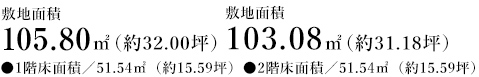
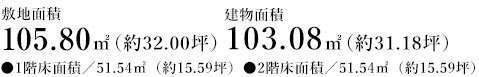
header.php　を元に戻す、間取り、12号邸sp画像、物件概要ページ修正

Changed region(s): [[0.4676, 0.0779, 0.6138, 0.2857]]

diff --git a/gentei/outline.html b/gentei/outline.html
@@ -84,35 +84,27 @@ define("title" ,"物件概要｜【公式】バウスガーデン大倉山ID");
   </table>
 </div>
 <div class="container">
-  <p class="outlineTitle">【第1期1次本広告物件概要】</p>
+  <p class="outlineTitle">【第1期2次販売予告概要】</p>
   <table class="outline">
     <tr>
-      <th>総戸数</th>
-      <td>12邸</td>
-    </tr>
-    <tr>
       <th>販売戸数</th>
-      <td>8邸</td>
+      <td>未定</td>
     </tr>
     <tr>
       <th>販売価格</th>
-      <td>7,392万円～8,040万円</td>
+      <td>未定</td>
     </tr>
-<!--    <tr>
-      <th>最多価格帯</th>
-      <td>10戸未満は必要ありません。</td>
-    </tr>-->
     <tr>
       <th>間取り</th>
-      <td>2LDK〜4LDK</td>
+      <td>2LDK＋WIC＋SIC〜3LDK＋WIC</td>
     </tr>
     <tr>
       <th>土地面積</th>
-      <td>105.71㎡（約31.97坪）～105.82㎡（約32.01坪）</td>
+      <td>105.71㎡（約31.97坪）～105.80㎡（約32.00坪）</td>
     </tr>
     <tr>
       <th>建築延床面積</th>
-      <td>96.87㎡（約29.30坪）～101.02㎡（約30.55坪）</td>
+      <td>100.71㎡（約30.46坪）～103.08㎡（約31.18坪）</td>
     </tr>
 	<tr>
       <th>テラス面積</th>
@@ -120,45 +112,25 @@ define("title" ,"物件概要｜【公式】バウスガーデン大倉山ID");
     </tr>
     <tr>
       <th>建築確認番号</th>
-      <td>第H31SHC122268号（令和2年2月6日付）他</td>
+      <td>第H31SHC122270号（令和2年2月6日付）他</td>
     </tr>
     <tr>
       <th>建物完成時期</th>
-      <td>1号邸・2号邸 2020年7月28日竣工済み、<br>3号邸〜12号邸 2021年2月下旬予定</td>
+      <td>1号邸・2号邸 2020年7月28日<br>3号邸〜12号邸 2021年2月下旬</td>
     </tr>
     <tr>
       <th>入居予定時期</th>
       <td>2021年4月下旬</td>
     </tr>
-<!--    <tr>
+    <tr>
       <th>販売予定時期</th>
-      <td>2021年2月中旬</td>
-    </tr>-->
-    <tr>
-      <th>登録受付期間</th>
-      <td>2021年2月19日（金）～2021年2月21日（日）12時まで</td>
-    </tr>
-    <tr>
-      <th>抽選日時</th>
-      <td>2021年2月21日（金）13時</td>
-    </tr>
-    <tr>
-      <th>登録受付場所</th>
-      <td>「バウスガーデン大倉山」販売センター</td>
-    </tr>
-    <tr>
-      <th>抽選場所</th>
-      <td>「バウスガーデン大倉山」販売センター<br>※登録の際には、2019年・2020年分の収入証明書、身分証明書(健康保険証・運転免許証・パスポート等)および認印が必要です</td>
-    </tr>
-    <tr>
-      <th>広告有効期限</th>
-      <td>2021年2月21日</td>
+      <td>2021年2月下旬</td>
     </tr>
   </table>
 </div>
 <div class="outline-cap">
-  <p><!--＜予告広告＞</p>
-  <p>※本広告を行うまでの間は、契約または、予約の申込の受付は一切できません。また、申込みの順位の確保に関する措置は講じられません。予めご了承ください。※全体で販売するか数期に分けて販売するか確定しておらず、販売住戸が未定のため物件データは全販売対象住戸のものを表示しています。確定情報は本広告にてお知らせいたします。-->※坪表示は1㎡＝0.3025坪で換算した約表示です。※敷地面積表示は、実測によるものです。※記載の区画図・間取図は概略図で大凡の広さ・縮尺・方位で若干誤差があります。畳数は約表示です。※家具・調度品は販売価格に含まれません。※記載の図面・方位等が現況と相違する場合は現況を優先させていただきます。現地案内の際にお確かめください。※日照・眺望・通風・周辺環境については将来に渡り保証するものではありません。※概要は令和3年2月12日現在のものです。</p>
+  <p>＜予告広告＞</p>
+  <p>※本広告を行うまでの間は、契約または、予約の申込の受付は一切できません。また、申込みの順位の確保に関する措置は講じられません。予めご了承ください。※全体で販売するか数期に分けて販売するか確定しておらず、販売住戸が未定のため物件データは全販売対象住戸のものを表示しています。確定情報は本広告にてお知らせいたします。※坪表示は1㎡＝0.3025坪で換算した約表示です。※敷地面積表示は、実測によるものです。</p>
 </div>
 
 <!-- /.CONTENTS -->

diff --git a/outline.html b/outline.html
@@ -84,35 +84,27 @@ define("title" ,"物件概要｜【公式】バウスガーデン大倉山ID");
   </table>
 </div>
 <div class="container">
-  <p class="outlineTitle">【第1期1次本広告物件概要】</p>
+  <p class="outlineTitle">【第1期2次販売予告概要】</p>
   <table class="outline">
     <tr>
-      <th>総戸数</th>
-      <td>12邸</td>
-    </tr>
-    <tr>
       <th>販売戸数</th>
-      <td>8邸</td>
+      <td>未定</td>
     </tr>
     <tr>
       <th>販売価格</th>
-      <td>7,392万円～8,040万円</td>
+      <td>未定</td>
     </tr>
-<!--    <tr>
-      <th>最多価格帯</th>
-      <td>10戸未満は必要ありません。</td>
-    </tr>-->
     <tr>
       <th>間取り</th>
-      <td>2LDK〜4LDK</td>
+      <td>2LDK＋WIC＋SIC〜3LDK＋WIC</td>
     </tr>
     <tr>
       <th>土地面積</th>
-      <td>105.71㎡（約31.97坪）～105.82㎡（約32.01坪）</td>
+      <td>105.71㎡（約31.97坪）～105.80㎡（約32.00坪）</td>
     </tr>
     <tr>
       <th>建築延床面積</th>
-      <td>96.87㎡（約29.30坪）～101.02㎡（約30.55坪）</td>
+      <td>100.71㎡（約30.46坪）～103.08㎡（約31.18坪）</td>
     </tr>
 	<tr>
       <th>テラス面積</th>
@@ -120,45 +112,25 @@ define("title" ,"物件概要｜【公式】バウスガーデン大倉山ID");
     </tr>
     <tr>
       <th>建築確認番号</th>
-      <td>第H31SHC122268号（令和2年2月6日付）他</td>
+      <td>第H31SHC122270号（令和2年2月6日付）他</td>
     </tr>
     <tr>
       <th>建物完成時期</th>
-      <td>1号邸・2号邸 2020年7月28日竣工済み、<br>3号邸〜12号邸 2021年2月下旬予定</td>
+      <td>1号邸・2号邸 2020年7月28日<br>3号邸〜12号邸 2021年2月下旬</td>
     </tr>
     <tr>
       <th>入居予定時期</th>
       <td>2021年4月下旬</td>
     </tr>
-<!--    <tr>
+    <tr>
       <th>販売予定時期</th>
-      <td>2021年2月中旬</td>
-    </tr>-->
-    <tr>
-      <th>登録受付期間</th>
-      <td>2021年2月19日（金）～2021年2月21日（日）12時まで</td>
-    </tr>
-    <tr>
-      <th>抽選日時</th>
-      <td>2021年2月21日（金）13時</td>
-    </tr>
-    <tr>
-      <th>登録受付場所</th>
-      <td>「バウスガーデン大倉山」販売センター</td>
-    </tr>
-    <tr>
-      <th>抽選場所</th>
-      <td>「バウスガーデン大倉山」販売センター<br>※登録の際には、2019年・2020年分の収入証明書、身分証明書(健康保険証・運転免許証・パスポート等)および認印が必要です</td>
-    </tr>
-    <tr>
-      <th>広告有効期限</th>
-      <td>2021年2月21日</td>
+      <td>2021年2月下旬</td>
     </tr>
   </table>
 </div>
 <div class="outline-cap">
-  <p><!--＜予告広告＞</p>
-  <p>※本広告を行うまでの間は、契約または、予約の申込の受付は一切できません。また、申込みの順位の確保に関する措置は講じられません。予めご了承ください。※全体で販売するか数期に分けて販売するか確定しておらず、販売住戸が未定のため物件データは全販売対象住戸のものを表示しています。確定情報は本広告にてお知らせいたします。-->※坪表示は1㎡＝0.3025坪で換算した約表示です。※敷地面積表示は、実測によるものです。※記載の区画図・間取図は概略図で大凡の広さ・縮尺・方位で若干誤差があります。畳数は約表示です。※家具・調度品は販売価格に含まれません。※記載の図面・方位等が現況と相違する場合は現況を優先させていただきます。現地案内の際にお確かめください。※日照・眺望・通風・周辺環境については将来に渡り保証するものではありません。※概要は令和3年2月12日現在のものです。</p>
+  <p>＜予告広告＞</p>
+  <p>※本広告を行うまでの間は、契約または、予約の申込の受付は一切できません。また、申込みの順位の確保に関する措置は講じられません。予めご了承ください。※全体で販売するか数期に分けて販売するか確定しておらず、販売住戸が未定のため物件データは全販売対象住戸のものを表示しています。確定情報は本広告にてお知らせいたします。※坪表示は1㎡＝0.3025坪で換算した約表示です。※敷地面積表示は、実測によるものです。</p>
 </div>
 
 <!-- /.CONTENTS -->

diff --git a/gentei/plan.html b/gentei/plan.html
@@ -54,8 +54,8 @@ define("title" ,"PLAN｜【公式】バウスガーデン大倉山ID");
 	  <div class="shikichizu"><img src="images/plan/sikichizu_a.jpg" alt=""/></div>
 	  <div class="bnr_lay"><a href="https://my.matterport.com/show/?m=9ZxJaN6NgXf" target="_blank"><img src="images/plan_detail/3Dbnr.jpg" alt="3d"/></a></div>
     <div class="flex maison">
-      <a href="plan_detail_01.html" target="_blank"><img class="link_bnr roll" src="images/plan/1st_maison.jpg"
-          alt="1号邸"></a>
+<!--      <a href="plan_detail_01.html" target="_blank"><img class="link_bnr roll" src="images/plan/1st_maison.jpg"
+          alt="1号邸"></a>-->
 <!--      <a href="plan_detail_02.html" target="_blank"><img class="link_bnr roll" src="images/plan/2st_maison.jpg"
           alt="2号邸"></a>-->
 		<a href="plan_detail_03.html" target="_blank"><img class="link_bnr roll" src="images/plan/3st_maison.jpg"

diff --git a/gentei/header.php b/gentei/header.php
@@ -113,7 +113,7 @@
   <link rel="stylesheet" href="common/css/<?php echo cssinc; ?>.css" type="text/css">
   <link rel="stylesheet" type="text/css" href="common/css/layerBoard.css">
   <link rel="stylesheet" type="text/css" href="common/css/flexslider.css">
-  <link href="https://use.fontawesome.com/releases/v5.6.1/css/all.css" rel="stylesheet">
+  
   <!-- Global site tag (gtag.js) - Google Analytics -->
 <script async src="https://www.googletagmanager.com/gtag/js?id=UA-176429020-1"></script>
 <script>
@@ -139,13 +139,13 @@
         </div>
         <div class="header-hnav">
           <ul>
-            <li class="hnav_li navtext">
-              <a href="outline.html" target="_blank"><i class="fas fa-angle-right"></i> 物件概要
-                <!--<img src="images/outline_off.jpg" alt="物件概要" />--> </a>
+            <li class="hnav_li">
+              <a href="outline.html" target="_blank">
+                <img src="images/outline_off.jpg" alt="物件概要" /> </a>
             </li>
-            <li class="navtext">
-              <a href="map.html" target="_blank"><i class="fas fa-angle-right"></i> 現地案内図
-                <!--<img src="images/map_off.jpg" alt="現地案内図" />--> </a>
+            <li>
+              <a href="map.html" target="_blank">
+                <img src="images/map_off.jpg" alt="現地案内図" /> </a>
             </li>
 <!--
 			  <li>
@@ -159,13 +159,9 @@
                 <img src="images/entry_btn_off.jpg" alt="物件エントリー" /> </a>
             </li>
 -->
-            <li>
+          <li>
               <a href="https://www.baus-web.jp/reserve/form-bg-okurayama/" target="_blank">
                 <img src="images/raijyo_btn_off.png" alt="来場予約" /> </a>
-            </li>
-		    <li>
-              <a href="#" target="_blank">
-                <img src="images/online_btn_off.png" alt="オンライン予約" /> </a>
             </li>
           </ul>
         </div>

diff --git a/header.php b/header.php
@@ -112,7 +112,7 @@
   <link rel="stylesheet" href="common/css/<?php echo cssinc; ?>.css" type="text/css">
   <link rel="stylesheet" type="text/css" href="common/css/layerBoard.css">
   <link rel="stylesheet" type="text/css" href="common/css/flexslider.css">
-  <link href="https://use.fontawesome.com/releases/v5.6.1/css/all.css" rel="stylesheet">
+  
   <!-- Global site tag (gtag.js) - Google Analytics -->
 <script async src="https://www.googletagmanager.com/gtag/js?id=UA-176429020-1"></script>
 <script>
@@ -138,13 +138,13 @@
         </div>
         <div class="header-hnav">
           <ul>
-            <li class="hnav_li navtext">
-              <a href="outline.html" target="_blank"><i class="fas fa-angle-right"></i> 物件概要
-                <!--<img src="images/outline_off.jpg" alt="物件概要" />--> </a>
+            <li class="hnav_li">
+              <a href="outline.html" target="_blank">
+                <img src="images/outline_off.jpg" alt="物件概要" /> </a>
             </li>
-            <li class="navtext">
-              <a href="map.html" target="_blank"><i class="fas fa-angle-right"></i> 現地案内図
-                <!--<img src="images/map_off.jpg" alt="現地案内図" />--> </a>
+            <li>
+              <a href="map.html" target="_blank">
+                <img src="images/map_off.jpg" alt="現地案内図" /> </a>
             </li>
 			  <li>
               <a href="login.html" target="_blank">
@@ -157,10 +157,6 @@
           <li>
               <a href="https://www.baus-web.jp/reserve/form-bg-okurayama/" target="_blank">
                 <img src="images/raijyo_btn_off.png" alt="来場予約" /> </a>
-            </li>
-		    <li>
-              <a href="#" target="_blank">
-                <img src="images/online_btn_off.png" alt="オンライン予約" /> </a>
             </li>
           </ul>
         </div>
